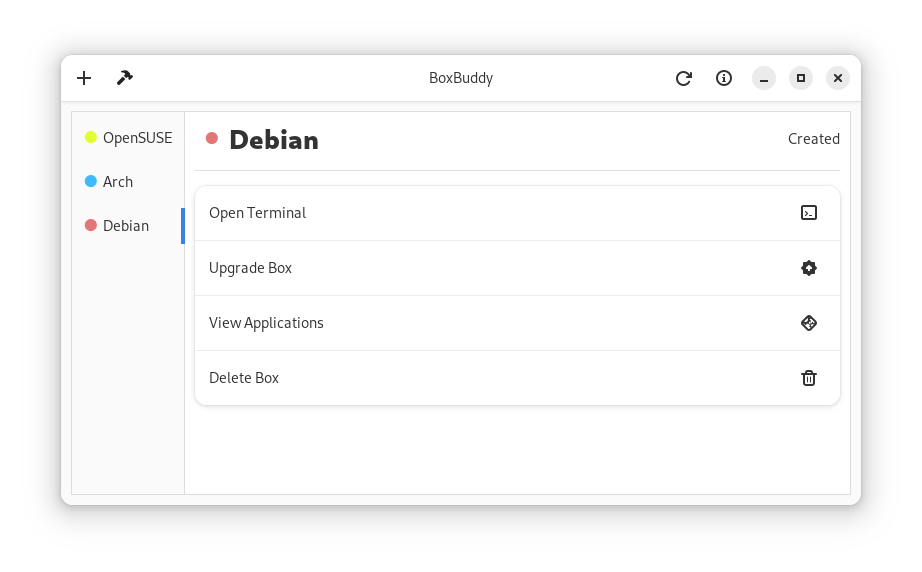
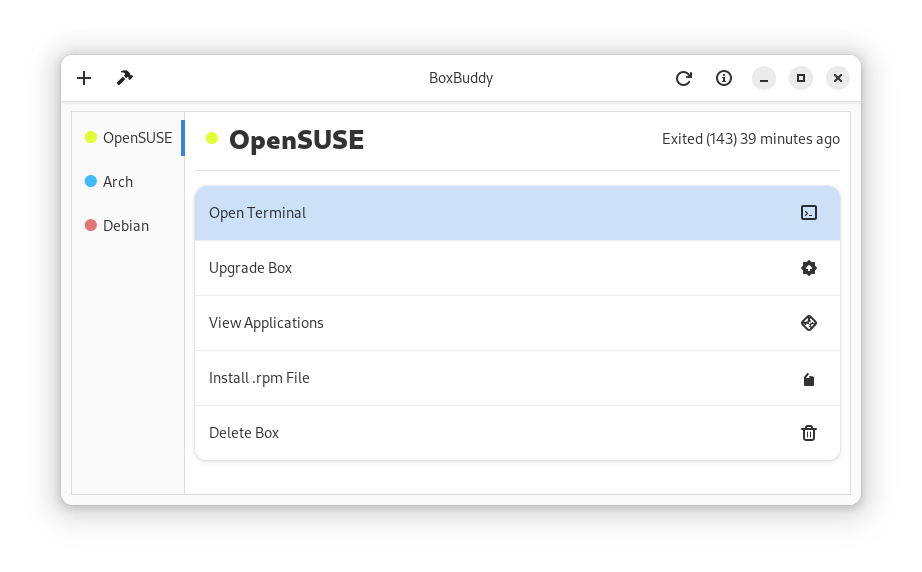
screenshots, finishing off debrpm work, docs

diff --git a/src/main.rs b/src/main.rs
@@ -1133,6 +1133,7 @@ fn show_install_binary_popup(
     let dd_clone = boxes_dd.clone();
     let bin_clone = file_path.to_string();
     let pt_clone = pkg_type;
+    let popup_clone = install_binary_popup.clone();
     create_btn.connect_clicked(move |_btn| {
         let box_name = dd_clone
             .selected_item()
@@ -1147,6 +1148,7 @@ fn show_install_binary_popup(
                 BinaryPackageType::Deb => install_deb_in_box(box_name, bin_clone.clone()),
                 BinaryPackageType::Rpm => install_rpm_in_box(box_name, bin_clone.clone()),
             }
+            popup_clone.destroy();
         }
     });
 
@@ -1180,7 +1182,12 @@ fn on_install_deb_clicked(window: &ApplicationWindow, box_name: String) {
             if let Ok(file) = result {
                 let deb_path = file.path().unwrap().into_os_string().into_string();
                 if deb_path.is_ok() {
-                    install_deb_in_box(box_name, deb_path.unwrap());
+                    let dp = deb_path.unwrap();
+                    if dp.starts_with("/run/user") {
+                        show_sandbox_access_popup(&window);
+                    } else {
+                        install_deb_in_box(box_name, dp);
+                    }
                 }
             }
         }),
@@ -1209,9 +1216,33 @@ fn on_install_rpm_clicked(window: &ApplicationWindow, box_name: String) {
             if let Ok(file) = result {
                 let rpm_path = file.path().unwrap().into_os_string().into_string();
                 if rpm_path.is_ok() {
-                    install_rpm_in_box(box_name, rpm_path.unwrap());
+                    let rp = rpm_path.unwrap();
+                    if rp.starts_with("/run/user") {
+                        show_sandbox_access_popup(&window);
+                    } else {
+                        install_rpm_in_box(box_name, rp);
+                    }
                 }
             }
         }),
     );
+}
+
+fn show_sandbox_access_popup(window: &ApplicationWindow) {
+    //TRANSLATORS: Error / Info Message
+    let message_body = gettext("This file is not accessible to Flatpak - please copy it to your Downloads folder, or allow filesystem access. Please see the <a href='https://dvlv.github.io/BoxBuddyRS/tips'>documentation for details.</a>");
+    let d = adw::MessageDialog::new(
+        Some(window),
+        //TRANSLATORS: Popup Heading
+        Some(&gettext("File Not Accessible")),
+        Some(&message_body),
+    );
+    d.set_transient_for(Some(window));
+    d.set_body_use_markup(true);
+    //TRANSLATORS: Button Label
+    d.add_response("ok", &gettext("Ok"));
+    d.set_default_response(Some("ok"));
+    d.set_close_response("ok");
+
+    d.present()
 }

diff --git a/src/utils.rs b/src/utils.rs
@@ -167,17 +167,17 @@ pub fn has_distrobox_installed() -> bool {
 }
 
 pub fn get_terminal_and_separator_arg() -> (String, String) {
-    let mut output = get_command_output(String::from("which"), Some(&["gnome-terminal"]));
-
-    // gnome terminal
-    //if !output.contains("no gnome-terminal in") && !output.is_empty() {
-    //    return (String::from("gnome-terminal"), String::from("--"));
-    //}
+    let mut output = get_command_output(String::from("which"), Some(&["kgx"]));
 
     // gnome console
-    output = get_command_output(String::from("which"), Some(&["kgx"]));
     if !output.contains("no kgx in") && !output.is_empty() {
         return (String::from("kgx"), String::from("--"));
+    }
+
+    // gnome terminal
+    output = get_command_output(String::from("which"), Some(&["gnome-terminal"]));
+    if !output.contains("no gnome-terminal in") && !output.is_empty() {
+        return (String::from("gnome-terminal"), String::from("--"));
     }
 
     // konsole
@@ -277,6 +277,7 @@ pub fn is_nvidia() -> bool {
     has_nvidia
 }
 
+#[allow(unused_assignments)]
 pub fn set_up_localisation() {
     textdomain("boxbuddyrs").expect("failed to initialise gettext");
     bind_textdomain_codeset("boxbuddyrs", "UTF-8").expect("failed to bind textdomain for gettext");
@@ -416,6 +417,7 @@ pub fn has_home_or_host_access() -> bool {
     true
 }
 
+#[allow(unreachable_code)]
 pub fn get_icon_file_path(icon: String) -> String {
     if is_flatpak() {
         return format!("/app/icons/{}", icon);

diff --git a/src/distrobox_handler.rs b/src/distrobox_handler.rs
@@ -29,6 +29,7 @@ pub struct ColsIndexes {
     pub status: usize,
 }
 
+#[allow(clippy::useless_asref)]
 pub fn get_all_distroboxes() -> Vec<DBox> {
     let mut my_boxes: Vec<DBox> = vec![];
 

diff --git a/docs/dev-docs.md b/docs/dev-docs.md
@@ -36,7 +36,6 @@ rustup component add clippy
 ## Guidelines During Development
 - Try to avoid adding external crates unless absolutely necessary
 - Please run `make lint` before submitting changes
-  - There are existing lint warnings about the locale folder, the build icon, and matching the heading. These can be ignored. 
   - Please read and address any clippy warnings caused by your code additions, unless you can't.
 
 - I would recommend having Flatseal installed while developing, so you can test your changes with and without host/home filesystem access easily.
